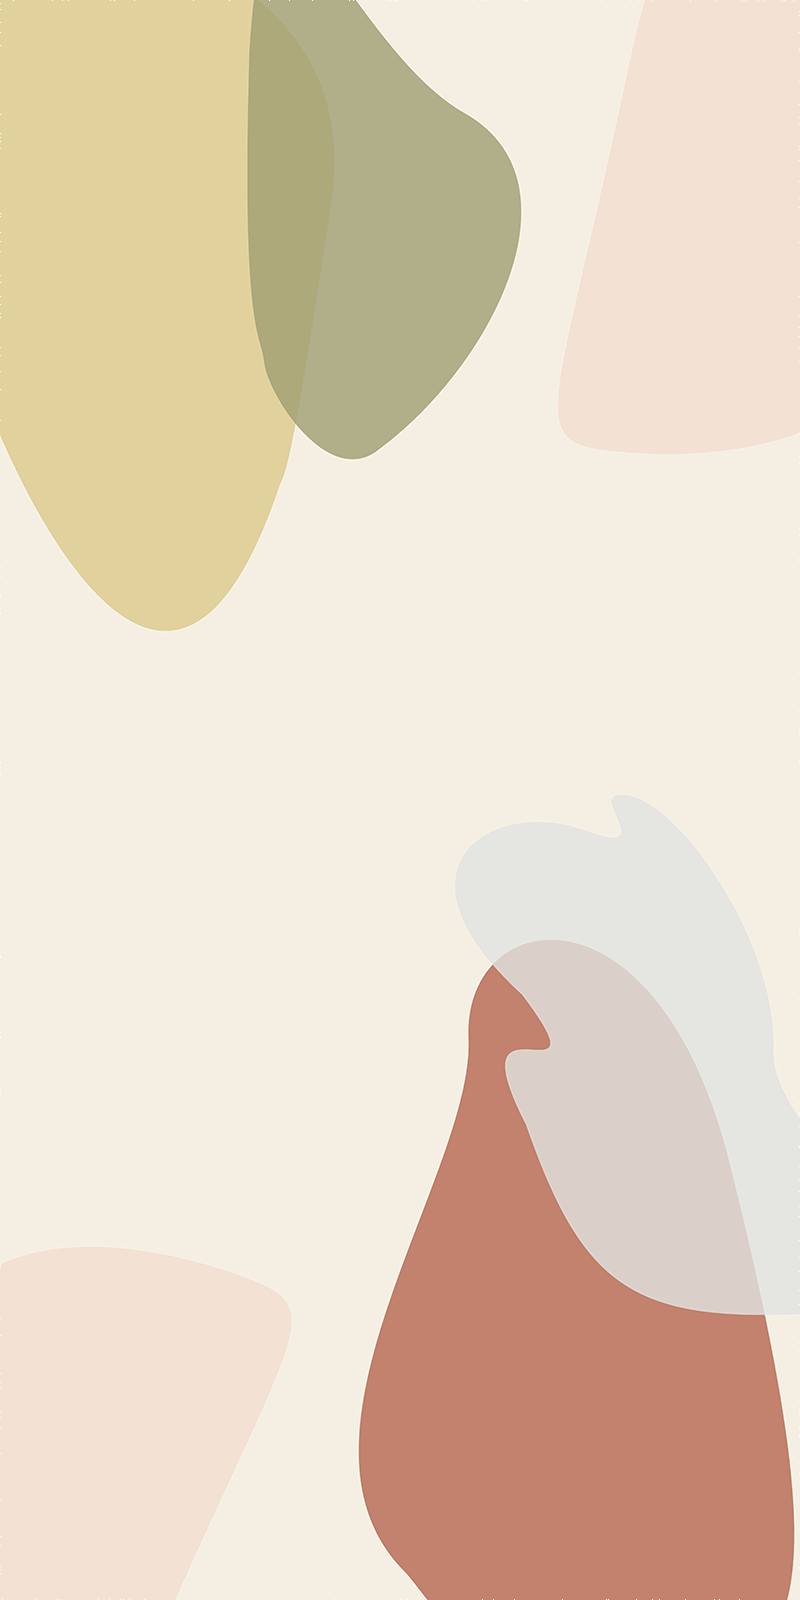
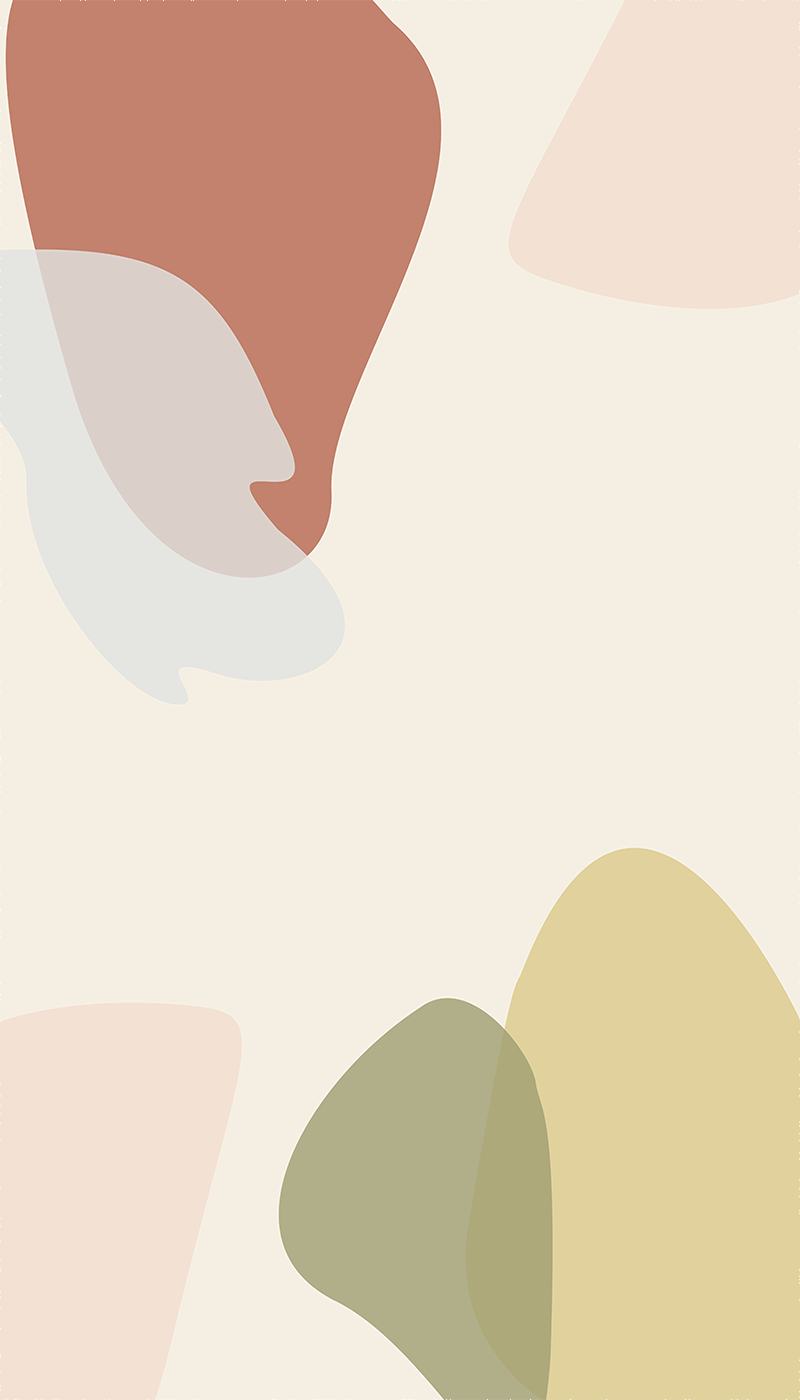
phone

diff --git a/style/phone.css b/style/phone.css
@@ -1,0 +1,118 @@
+@charset "utf-8";
+@media screen and (max-width: 600px){
+
+/*기본설정*/
+
+.s0 {
+    background-image: url(../image/background_phone.png);
+    /* background-repeat: no-repeat;
+    background-position: center;
+    background-size: cover; */
+}
+
+.s1 {
+    background-image: url(../image/background_2_phone.png);
+}
+
+.s2 {
+    background-image: url(../image/background_3_phone.png);
+}
+
+.s3 {
+    background-image: url(../image/background_4_phone.png);
+}
+
+/*기본설정*/
+
+/*memu,header 설정*/
+
+div#cls>i,div#memu {
+    margin-top: 4vh;
+    margin-left: 10px;
+}
+nav#gnb {
+    width: 300px;
+}
+nav#gnb>ul li.mainLi {
+    display: block;
+    width: 300px;
+    height: 20vh;
+}
+
+nav#gnb>ul>li.mainLi>a {
+    font-size: 35px;
+    line-height: 20vh;
+}
+
+/* nav#gnb 끝 */
+
+
+/* header#header 시작 */
+
+header#header div#logo img {
+    width: 24vw;
+    height: 8vh;
+    margin-left: -10px;
+}
+
+
+
+.s0 p {
+    margin-top: 10vh;
+    height: 40vh;
+    line-height: 40vh;
+    font-size: 40px;
+}
+
+.section .tbl {
+    position: relative;
+    width: 80vw;
+    height: 70vh;
+    padding-top: 0vh;
+}
+
+.section .tbl .tblUl {
+    width: 80vw;
+    height: 28vh;
+    position: absolute;
+    margin-top: 43vh;
+}
+
+.section .tbl .tblUl li {
+    margin-top: 5px;
+}
+
+.section .tbl .PageN {
+    font-size: 5vmin;
+    line-height: 5vmin;
+}
+.section .tbl .WebN {
+    font-size: 4vmin;
+}
+
+.section .tbl .SubN {
+    font-size: 3vmin;
+}
+
+.section .tbl .BlankN {
+    display: block;
+    width: 50vw;
+    height: 40px;
+    line-height: 40px;
+}
+
+
+.section .tbl img {
+    width: 80vw;
+    height: 40vh;
+    position: absolute;
+}
+
+
+
+
+
+
+
+
+}

diff --git a/style/fullpage.min.css b/style/fullpage.min.css
@@ -158,9 +158,9 @@ html.fp-enabled {
 #fp-nav ul li,
 .fp-slidesNav ul li {
     display: block;
-    width: 14px;
-    height: 13px;
-    margin: 7px;
+    width: 15px!important;
+    height: 15px!important;
+    margin: 10px!important;
     position: relative
 }
 
@@ -183,9 +183,9 @@ html.fp-enabled {
 #fp-nav ul li:hover a.active span,
 .fp-slidesNav ul li a.active span,
 .fp-slidesNav ul li:hover a.active span {
-    height: 12px;
-    width: 12px;
-    margin: -6px 0 0 -6px;
+    height: 15px!important;
+    width: 15px!important;
+    margin: -6px 0 0 -8px!important;
     border-radius: 100%
 }
 
@@ -194,13 +194,13 @@ html.fp-enabled {
     border-radius: 50%;
     position: absolute;
     z-index: 1;
-    height: 4px;
-    width: 4px;
+    height: 10px!important;
+    width: 10px!important;
     border: 0;
-    background: #333;
+    background: #385565!important;
     left: 50%;
     top: 50%;
-    margin: -2px 0 0 -2px;
+    margin: -5px 0 0 -5px;
     -webkit-transition: all .1s ease-in-out;
     -moz-transition: all .1s ease-in-out;
     -o-transition: all .1s ease-in-out;
@@ -209,16 +209,17 @@ html.fp-enabled {
 
 #fp-nav ul li:hover a span,
 .fp-slidesNav ul li:hover a span {
-    width: 10px;
-    height: 10px;
-    margin: -5px 0 0 -5px
+    width: 13px!important;
+    height: 13px!important;
+    margin: -5px 0 0 -5px!important;
 }
 
 #fp-nav ul li .fp-tooltip {
     position: absolute;
     top: -2px;
-    color: #fff;
-    font-size: 14px;
+    color: #385565!important;
+    font-size: 17px!important;
+    font-weight: bold;
     font-family: arial, helvetica, sans-serif;
     white-space: nowrap;
     max-width: 220px;

diff --git a/index.html b/index.html
@@ -7,6 +7,7 @@
     <link href="https://fonts.googleapis.com/icon?family=Material+Icons" rel="stylesheet">
     <link rel="stylesheet" href="style/fullpage.min.css" />
     <link rel="stylesheet" href="style/css.css" />
+    <link rel="stylesheet" href="style/phone.css" />
     <title>Portfolio</title>
 </head>
 
@@ -105,7 +106,7 @@
                         <a href="#" target="_blank" class="BlankA">VIEW WEBSITE</a>
                     </li>
                     <li class="Eng BlankN">
-                        <a href="https://github.com/YUL-07/Portfolio_fullpage.git" target="_blank" class="BlankA">VIEW CODE</a>
+                        <a href="https://github.com/YUL-07/Port.git" target="_blank" class="BlankA">VIEW CODE</a>
                     </li>
                 </ul>
                 <img src="image/por_cut.png" alt="portfolioPC">
@@ -121,8 +122,8 @@
         new fullpage('#full-page', {
             licenseKey: '',
             navigation: true,
-            navigationTooltips: ['Info', 'VintageFlim', 'Revintage', 'Portfolio'],
-            scrollingSpeed: 2000
+            navigationTooltips: ['Home', 'VintageFlim', 'Revintage', 'Portfolio'],
+            scrollingSpeed: 1500
         });
     </script>
 

diff --git a/style/css.css b/style/css.css
@@ -55,9 +55,8 @@ li {
 }
 
 #fp-nav ul li a span {
-    background-color: #fff;
+    background-color: #385565;
 }
-
 
 /*기본설정*/
 
